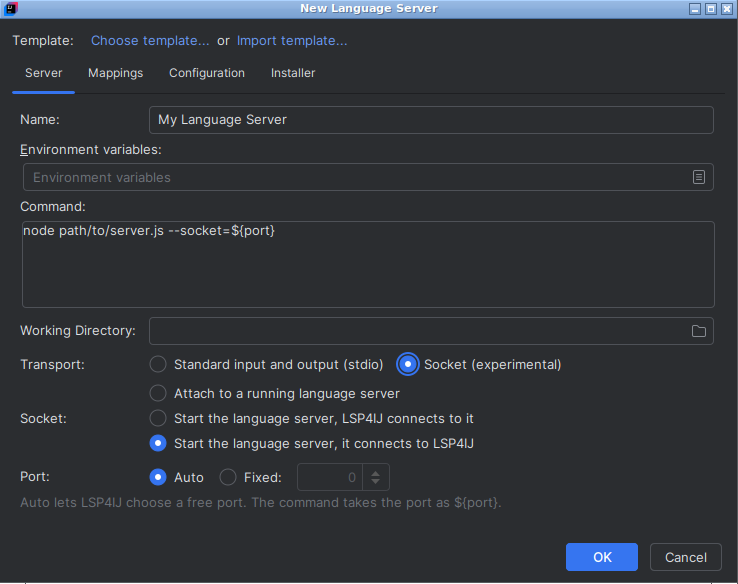
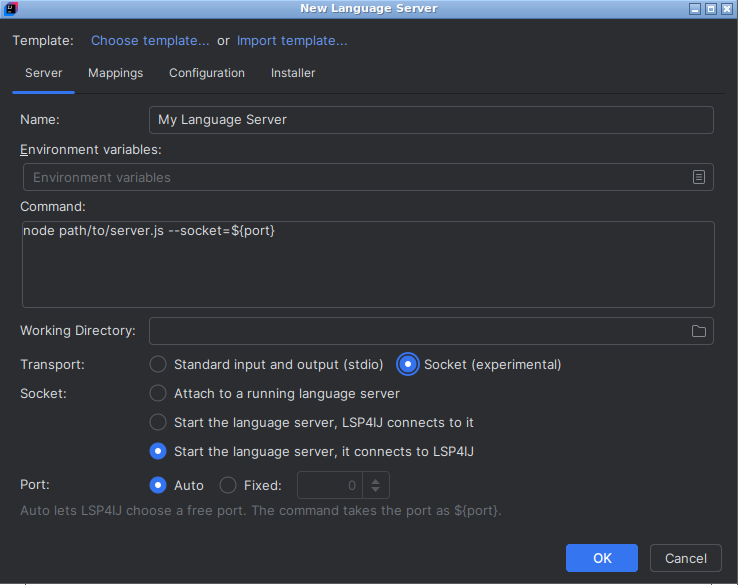
fix: refuse a fixed port of 0 and Auto without ${port}, bound the start's wait, and align Socket: with its first mode
CodeRabbit's review of 29c81ef8, and muescha's last layout nitpick:

- A fixed port of 0 was saved as Auto, and showed as Auto once the
  dialog opened again. The Server tab now refuses it: "A fixed port
  can't be 0: choose Auto to let LSP4IJ choose a free one".
- A language server which LSP4IJ starts on a port it chooses learns
  the port only from its command. With Auto and a command without
  ${port}, it never listened on that port, and the start waited until
  the user stopped it, without an error. The Server tab now refuses
  Auto with a command that doesn't take ${port}; an empty command keeps
  its own error.
- As a bound for every other way the language server may never
  answer, a start waits for the connection 60 seconds by default:
  SocketStreamConnectionProvider.setStartTimeout, DEFAULT_START_TIMEOUT.
  Past it, the retries of a language server which listens end, the
  accept of one which connects times out, and the connection to one
  which runs already gives up; the start fails with the port and the
  command, and stops the language server if LSP4IJ started it.
- "Socket:" was centered beside its three modes, so the first read as
  a third transport. Each mode now has a row of its own, and "Socket:"
  stands on the first.

The developer and user guides say so, and the two screenshots of the
Server tab are taken again, from IntelliJ IDEA 2024.2 with this build.

Validation: TransportFieldsTest refuses a fixed port of 0 and accepts
[…]

diff --git a/src/main/java/com/redhat/devtools/lsp4ij/server/SocketStreamConnectionProvider.java b/src/main/java/com/redhat/devtools/lsp4ij/server/SocketStreamConnectionProvider.java
@@ -35,10 +35,13 @@ import java.net.InetSocketAddress;
 import java.net.ServerSocket;
 import java.net.Socket;
 import java.net.SocketException;
+import java.net.SocketTimeoutException;
+import java.time.Duration;
 import java.util.ArrayList;
 import java.util.List;
 import java.util.Objects;
 import java.util.concurrent.CopyOnWriteArrayList;
+import java.util.concurrent.TimeUnit;
 import java.util.concurrent.atomic.AtomicBoolean;
 import java.util.function.IntFunction;
 import java.util.stream.Stream;
@@ -91,6 +94,11 @@ public class SocketStreamConnectionProvider implements StreamConnectionProvider,
     private static final long FIRST_RETRY_PAUSE_MILLIS = 10;
     private static final long MAX_RETRY_PAUSE_MILLIS = 500;
 
+    /**
+     * How long a start waits for the connection by default.
+     */
+    public static final @NotNull Duration DEFAULT_START_TIMEOUT = Duration.ofSeconds(60);
+
     private final @NotNull Direction direction;
     private final @NotNull String host;
     private final int port;
@@ -111,6 +119,7 @@ public class SocketStreamConnectionProvider implements StreamConnectionProvider,
     private volatile @Nullable OutputStream outputStream;
     private volatile boolean connectionEnded;
     private volatile int boundPort;
+    private volatile @NotNull Duration startTimeout = DEFAULT_START_TIMEOUT;
 
     /**
      * Returns a provider which connects to a language server that runs already and listens on the given host and
@@ -195,6 +204,29 @@ public class SocketStreamConnectionProvider implements StreamConnectionProvider,
         return boundPort;
     }
 
+    /**
+     * Returns how long a start waits for the connection: for a language server which runs already to accept it, for a
+     * language server which LSP4IJ starts to listen or to connect. Past it, the start fails.
+     *
+     * @return how long a start waits for the connection.
+     */
+    public @NotNull Duration getStartTimeout() {
+        return startTimeout;
+    }
+
+    /**
+     * Sets how long a start waits for the connection, {@link #DEFAULT_START_TIMEOUT} by default, as for a language
+     * server which starts slowly. Past it, the start fails, and stops the language server if LSP4IJ started it.
+     *
+     * @param startTimeout how long a start waits for the connection.
+     */
+    public void setStartTimeout(@NotNull Duration startTimeout) {
+        if (startTimeout.isNegative() || startTimeout.isZero()) {
+            throw new IllegalArgumentException("The start timeout must be positive: " + startTimeout);
+        }
+        this.startTimeout = startTimeout;
+    }
+
     @Override
     public void addLogErrorHandler(LanguageServerLogErrorHandler handler) {
         logErrorHandlers.add(handler);
@@ -248,14 +280,21 @@ public class SocketStreamConnectionProvider implements StreamConnectionProvider,
             checkNothingListens(port);
         }
         var handler = startProcess(commandLine.apply(port));
-        // The language server listens once it has started: try until it accepts the connection, or ends
+        // The language server listens once it has started: try until it accepts the connection, ends, or the start
+        // times out, as when its command doesn't take the port
+        long deadline = System.nanoTime() + startTimeout.toNanos();
         long pause = FIRST_RETRY_PAUSE_MILLIS;
         while (true) {
             try {
                 install(connectOnce(port));
                 return;
             } catch (ConnectException notListeningYet) {
-                boolean ended = handler.waitFor(pause);
+                long remaining = TimeUnit.NANOSECONDS.toMillis(deadline - System.nanoTime());
+                if (remaining <= 0) {
+                    throw new CannotStartProcessException("The language server didn't accept a connection on port "
+                            + port + " within " + startTimeout.toSeconds() + " s: " + this);
+                }
+                boolean ended = handler.waitFor(Math.min(pause, remaining));
                 checkNotStopped();
                 if (ended) {
                     throw new CannotStartProcessException("The language server ended before it accepted a connection: " + this);
@@ -282,7 +321,7 @@ public class SocketStreamConnectionProvider implements StreamConnectionProvider,
         }
         try {
             // stop() closes the attempt
-            attempt.connect(new InetSocketAddress(host, port));
+            attempt.connect(new InetSocketAddress(host, port), timeoutMillis());
             return attempt;
         } catch (IOException e) {
             closeQuietly(attempt);
@@ -308,7 +347,11 @@ public class SocketStreamConnectionProvider implements StreamConnectionProvider,
         Socket accepted;
         try {
             // stop(), and the end of the language server, close the server socket
+            server.setSoTimeout(timeoutMillis());
             accepted = server.accept();
+        } catch (SocketTimeoutException e) {
+            throw new CannotStartProcessException("The language server didn't connect to port " + boundPort
+                    + " within " + startTimeout.toSeconds() + " s: " + this);
         } catch (SocketException e) {
             checkNotStopped();
             if (handler != null && handler.isProcessTerminated()) {
@@ -392,6 +435,10 @@ public class SocketStreamConnectionProvider implements StreamConnectionProvider,
         if (!stopped && socket != null && unexpectedStopReported.compareAndSet(false, true)) {
             unexpectedServerStopHandlers.forEach(Runnable::run);
         }
+    }
+
+    private int timeoutMillis() {
+        return (int) Math.min(Integer.MAX_VALUE, Math.max(1, startTimeout.toMillis()));
     }
 
     private void checkNotStopped() throws CannotStartProcessException {

diff --git a/src/main/java/com/redhat/devtools/lsp4ij/settings/ui/TransportFields.java b/src/main/java/com/redhat/devtools/lsp4ij/settings/ui/TransportFields.java
@@ -47,11 +47,13 @@ final class TransportFields {
     private final JBRadioButton fixedPort = new JBRadioButton(message("language.server.socket.port.fixed"));
     private final PortField port = new PortField(0, 0);
     private final JBLabel socketLabel = new JBLabel(message("language.server.socket"));
+    // the other modes' rows have no label, so "Socket:" stands on the row of the first mode
+    private final JBLabel startAndConnectLabel = new JBLabel();
+    private final JBLabel startAndAcceptLabel = new JBLabel();
     private final JBLabel hostLabel = new JBLabel(message("language.server.socket.host"));
     private final JBLabel portLabel = new JBLabel(message("language.server.socket.port"));
     private final JBLabel portHint = new JBLabel(message("language.server.socket.port.hint", UserDefinedTransport.PORT_MACRO));
     private final JPanel transportRow = row(GAP, stdio, socket);
-    private final JPanel socketModes = column(attach, startAndConnect, startAndAccept);
     // Auto and Fixed have a row of their own, whose gaps hide with them, so the port lines up with the host without them
     private final JPanel portChoice = row(GAP, autoPort, fixedPort);
     private final JPanel portRow = row(0, portChoice, port);
@@ -78,7 +80,9 @@ final class TransportFields {
      */
     void addTo(@NotNull FormBuilder builder) {
         builder.addLabeledComponent(message("language.server.transport"), transportRow);
-        builder.addLabeledComponent(socketLabel, socketModes);
+        builder.addLabeledComponent(socketLabel, attach);
+        builder.addLabeledComponent(startAndConnectLabel, startAndConnect);
+        builder.addLabeledComponent(startAndAcceptLabel, startAndAccept);
         builder.addLabeledComponent(hostLabel, host);
         builder.addLabeledComponent(portLabel, portRow);
         builder.addComponent(portHint, 0);
@@ -145,16 +149,21 @@ final class TransportFields {
     }
 
     /**
-     * Returns an error when the transport can't be used: a language server which runs already needs its port, since
-     * LSP4IJ can't choose one for it.
+     * Returns an error when the port can't be used: a language server which runs already needs its port, since LSP4IJ
+     * can't choose one for it, and a fixed port isn't 0, which would be Auto once saved.
      *
-     * @return the error of the transport, or null if it can be used.
+     * @return the error of the port, or null if it can be used.
      */
     @Nullable
     ValidationInfo validate() {
-        var transport = getTransport();
-        if (transport.mode() == UserDefinedTransport.Mode.ATTACH && transport.port() == 0) {
+        if (!socket.isSelected() || port.getNumber() != 0) {
+            return null;
+        }
+        if (attach.isSelected()) {
             return new ValidationInfo(message("language.server.validation.socket.port"), port);
+        }
+        if (fixedPort.isSelected()) {
+            return new ValidationInfo(message("language.server.validation.socket.port.fixed"), port);
         }
         return null;
     }
@@ -165,8 +174,10 @@ final class TransportFields {
     private void update() {
         boolean isSocket = socket.isSelected();
         boolean isAttach = isSocket && attach.isSelected();
-        socketLabel.setVisible(isSocket);
-        socketModes.setVisible(isSocket);
+        for (var component : List.of(socketLabel, attach, startAndConnectLabel, startAndConnect, startAndAcceptLabel,
+                startAndAccept)) {
+            component.setVisible(isSocket);
+        }
         hostLabel.setVisible(isAttach);
         host.setVisible(isAttach);
         portLabel.setVisible(isSocket);
@@ -203,14 +214,5 @@ final class TransportFields {
         }
         row.add(Box.createHorizontalGlue());
         return row;
-    }
-
-    private static @NotNull JPanel column(@NotNull JComponent... components) {
-        var column = new JPanel();
-        column.setLayout(new BoxLayout(column, BoxLayout.Y_AXIS));
-        for (var component : components) {
-            column.add(component);
-        }
-        return column;
     }
 }

diff --git a/src/test/java/com/redhat/devtools/lsp4ij/server/SocketStreamConnectionProviderTest.java b/src/test/java/com/redhat/devtools/lsp4ij/server/SocketStreamConnectionProviderTest.java
@@ -23,6 +23,7 @@ import java.net.InetAddress;
 import java.net.ServerSocket;
 import java.nio.charset.StandardCharsets;
 import java.nio.file.Path;
+import java.time.Duration;
 import java.util.List;
 import java.util.concurrent.CompletableFuture;
 import java.util.concurrent.CompletionException;
@@ -269,6 +270,21 @@ public class SocketStreamConnectionProviderTest extends LightPlatformTestCase {
                 SocketStreamConnectionProvider.startAndAccept(0, port -> java(ConnectingServer.class, port)).getDirection());
     }
 
+    public void testAStartEndsWhenTheLanguageServerDoesNotListenInTime() throws Exception {
+        assertStartTimesOut(SocketStreamConnectionProvider.startAndConnect(0, port -> java(WaitingServer.class, port)));
+    }
+
+    public void testAStartEndsWhenTheLanguageServerDoesNotConnectInTime() throws Exception {
+        assertStartTimesOut(SocketStreamConnectionProvider.startAndAccept(0, port -> java(WaitingServer.class, port)));
+    }
+
+    public void testTheStartTimeoutIsPositive() {
+        var provider = SocketStreamConnectionProvider.attachTo(HOST, 6005);
+        assertEquals(SocketStreamConnectionProvider.DEFAULT_START_TIMEOUT, provider.getStartTimeout());
+        assertThrows(IllegalArgumentException.class, () -> provider.setStartTimeout(Duration.ZERO));
+        assertThrows(IllegalArgumentException.class, () -> provider.setStartTimeout(Duration.ofSeconds(-1)));
+    }
+
     public void testStartsOnce() throws Exception {
         try (var server = new ServerSocket(0, 1, InetAddress.getLoopbackAddress())) {
             var provider = SocketStreamConnectionProvider.attachTo(HOST, server.getLocalPort());
@@ -286,6 +302,23 @@ public class SocketStreamConnectionProviderTest extends LightPlatformTestCase {
         assertThrows(IllegalArgumentException.class, () -> SocketStreamConnectionProvider.attachTo(HOST, 0));
         assertThrows(IllegalArgumentException.class, () -> SocketStreamConnectionProvider.attachTo(HOST, 65536));
         assertThrows(IllegalArgumentException.class, () -> SocketStreamConnectionProvider.attachTo(HOST, -1));
+    }
+
+    /**
+     * Starts the provider with a start timeout which any machine passes, since the language server never listens nor
+     * connects: the start fails, and stops the language server.
+     */
+    private static void assertStartTimesOut(SocketStreamConnectionProvider provider) throws Exception {
+        provider.setStartTimeout(Duration.ofMillis(1));
+        var stops = countUnexpectedStops(provider);
+        try {
+            assertThrows(CannotStartProcessException.class, provider::start);
+            awaitExit(provider);
+            assertFalse(provider.isAlive());
+            assertEquals("start() reports it", 0, stops.get());
+        } finally {
+            reap(provider);
+        }
     }
 
     /**

diff --git a/src/test/java/com/redhat/devtools/lsp4ij/settings/ui/TransportFieldsTest.java b/src/test/java/com/redhat/devtools/lsp4ij/settings/ui/TransportFieldsTest.java
@@ -42,7 +42,7 @@ public class TransportFieldsTest extends LightPlatformTestCase {
 
     public void testTheStandardInputAndOutputShowsNoSocket() {
         assertTrue(radio("language.server.transport.stdio").isSelected());
-        assertFalse("the socket's modes are hidden", radio("language.server.socket.attach").getParent().isVisible());
+        assertFalse("the socket's modes are hidden", radio("language.server.socket.attach").isVisible());
         assertFalse(port().getParent().isVisible());
         assertSame(UserDefinedTransport.STDIO, fields.getTransport());
         assertNull(fields.validate());
@@ -55,12 +55,25 @@ public class TransportFieldsTest extends LightPlatformTestCase {
         radio("language.server.transport.socket").doClick();
 
         assertTrue(changes.get() > 0);
-        assertTrue(radio("language.server.socket.startAndAccept").getParent().isVisible());
+        assertTrue(radio("language.server.socket.startAndAccept").isVisible());
         assertTrue(radio("language.server.socket.startAndAccept").isSelected());
         assertTrue(radio("language.server.socket.port.auto").isSelected());
         assertFalse("the port is chosen", port().isEnabled());
         assertFalse("LSP4IJ starts the language server, so it has no host", host().isVisible());
         assertEquals(new UserDefinedTransport(UserDefinedTransport.Mode.START_AND_ACCEPT, null, 0), fields.getTransport());
+    }
+
+    public void testAFixedPortIsNotZero() {
+        radio("language.server.transport.socket").doClick();
+        radio("language.server.socket.port.fixed").doClick();
+
+        // 0 would be Auto once saved
+        var error = fields.validate();
+        assertNotNull(error);
+        assertEquals(message("language.server.validation.socket.port.fixed"), error.message);
+
+        port().setNumber(4389);
+        assertNull(fields.validate());
     }
 
     public void testAFixedPortIsTheOneTyped() {

diff --git a/src/main/java/com/redhat/devtools/lsp4ij/settings/ui/LanguageServerPanel.java b/src/main/java/com/redhat/devtools/lsp4ij/settings/ui/LanguageServerPanel.java
@@ -702,13 +702,29 @@ public class LanguageServerPanel implements Disposable {
     }
 
     /**
-     * Returns an error when the transport can't be used: a language server which runs already needs its port, since
-     * LSP4IJ can't choose one for it.
+     * Returns an error when the transport can't be used: a language server which runs already needs its port, a fixed
+     * port isn't 0, and the command of a language server on a port which LSP4IJ chooses takes it as
+     * {@value UserDefinedTransport#PORT_MACRO}, or the language server never learns it.
      *
      * @return the error of the transport, or null if it can be used.
      */
     public @Nullable ValidationInfo validateTransport() {
-        return transportFields != null ? transportFields.validate() : null;
+        if (transportFields == null) {
+            return null;
+        }
+        var error = transportFields.validate();
+        if (error != null) {
+            return error;
+        }
+        var transport = transportFields.getTransport();
+        if (transport.mode() != UserDefinedTransport.Mode.STDIO && transport.startsLanguageServer() && transport.port() == 0
+                // an empty command has an error of its own
+                && commandLine != null && !commandLine.getText().isBlank()
+                && !commandLine.getText().contains(UserDefinedTransport.PORT_MACRO)) {
+            return new ValidationInfo(LanguageServerBundle.message("language.server.validation.socket.port.macro",
+                    UserDefinedTransport.PORT_MACRO), commandLine);
+        }
+        return null;
     }
 
     private void addJsonError(@NotNull @PropertyKey(resourceBundle = BUNDLE) String fieldKey,

diff --git a/src/test/java/com/redhat/devtools/lsp4ij/launching/ui/NewLanguageServerDialogTransportTest.java b/src/test/java/com/redhat/devtools/lsp4ij/launching/ui/NewLanguageServerDialogTransportTest.java
@@ -62,6 +62,26 @@ public class NewLanguageServerDialogTransportTest extends BasePlatformTestCase {
         }
     }
 
+    public void testTheCommandOfALanguageServerOnAFreePortTakesThePort() {
+        var transport = new UserDefinedTransport(UserDefinedTransport.Mode.START_AND_ACCEPT, null, 0);
+        var dialog = dialog(template("node server.js", transport));
+        try {
+            List<ValidationInfo> errors = dialog.doValidateAll();
+            assertEquals(1, errors.size());
+            assertEquals(LanguageServerBundle.message("language.server.validation.socket.port.macro",
+                    UserDefinedTransport.PORT_MACRO), errors.get(0).message);
+        } finally {
+            dialog.close(DialogWrapper.CANCEL_EXIT_CODE);
+        }
+
+        var takesThePort = dialog(template("node server.js --socket=${port}", transport));
+        try {
+            assertEmpty(takesThePort.doValidateAll());
+        } finally {
+            takesThePort.close(DialogWrapper.CANCEL_EXIT_CODE);
+        }
+    }
+
     public void testTheAddedLanguageServerHasTheTransport() {
         var dialog = dialog(template("", RUNNING));
         dialog.doOKAction();

diff --git a/docs/DeveloperGuide.md b/docs/DeveloperGuide.md
@@ -225,7 +225,9 @@ only. The output of a language server which LSP4IJ starts goes to the `Log tab` 
 [LSP console](https://github.com/redhat-developer/lsp4ij/blob/main/docs/UserGuide.md#lsp-console), since the socket
 carries the protocol. A language server which ends, or closes the connection, is reported as stopped unexpectedly, as
 a language server process is. Stopping the language server closes the connection, and ends the process only if LSP4IJ
-started it: a language server which ran already keeps running.
+started it: a language server which ran already keeps running. A start waits for the connection 60 seconds by default
+(`setStartTimeout`), as when the command of a language server doesn't take the port: past it, the start fails, and stops
+the language server if LSP4IJ started it.
 
 As with any TCP transport of LSP, which has no handshake to authenticate its peer, any local process can connect to a
 loopback port: on a machine shared with other users, prefer the standard input and output of the language server's

diff --git a/docs/UserDefinedLanguageServer.md b/docs/UserDefinedLanguageServer.md
@@ -101,7 +101,8 @@ ways, which are experimental:
   `--socket=<port>`.
 
 When LSP4IJ starts the language server, the `Command` takes the port as `${port}`, and a `Port` of `Auto` lets LSP4IJ
-choose a free port each time. For instance, with a language server built on `vscode-languageserver`:
+choose a free port each time: the `Command` must then have `${port}`, or the language server can't know the port. A
+start that gets no connection within 60 seconds fails. For instance, with a language server built on `vscode-languageserver`:
 
 `node path/to/server.js --socket=${port}`
 
